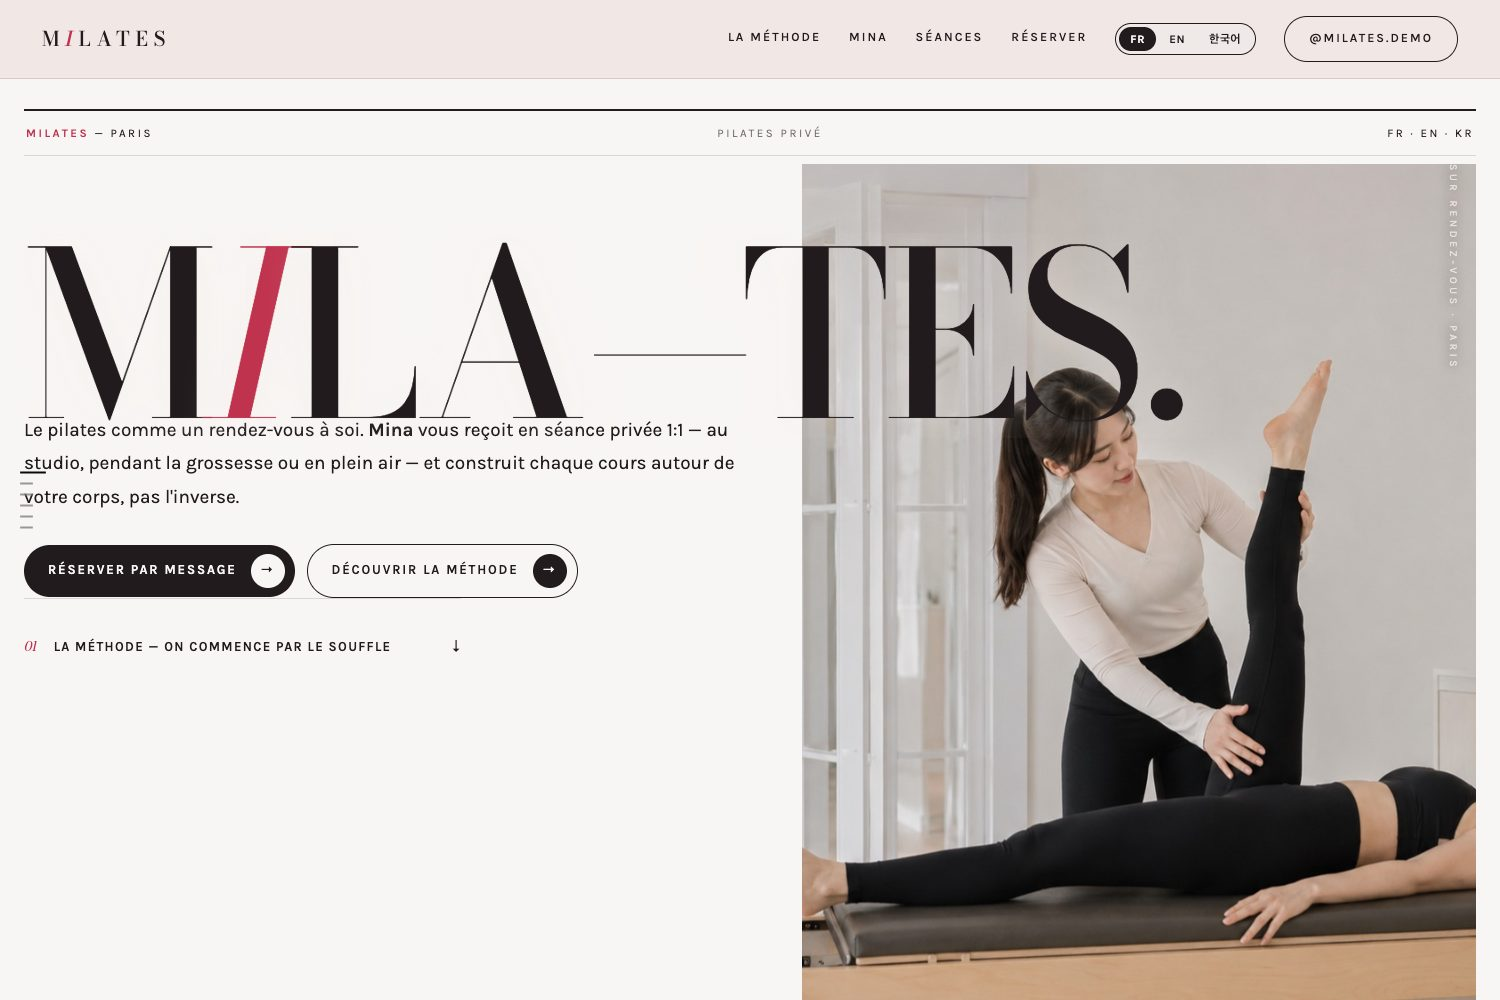
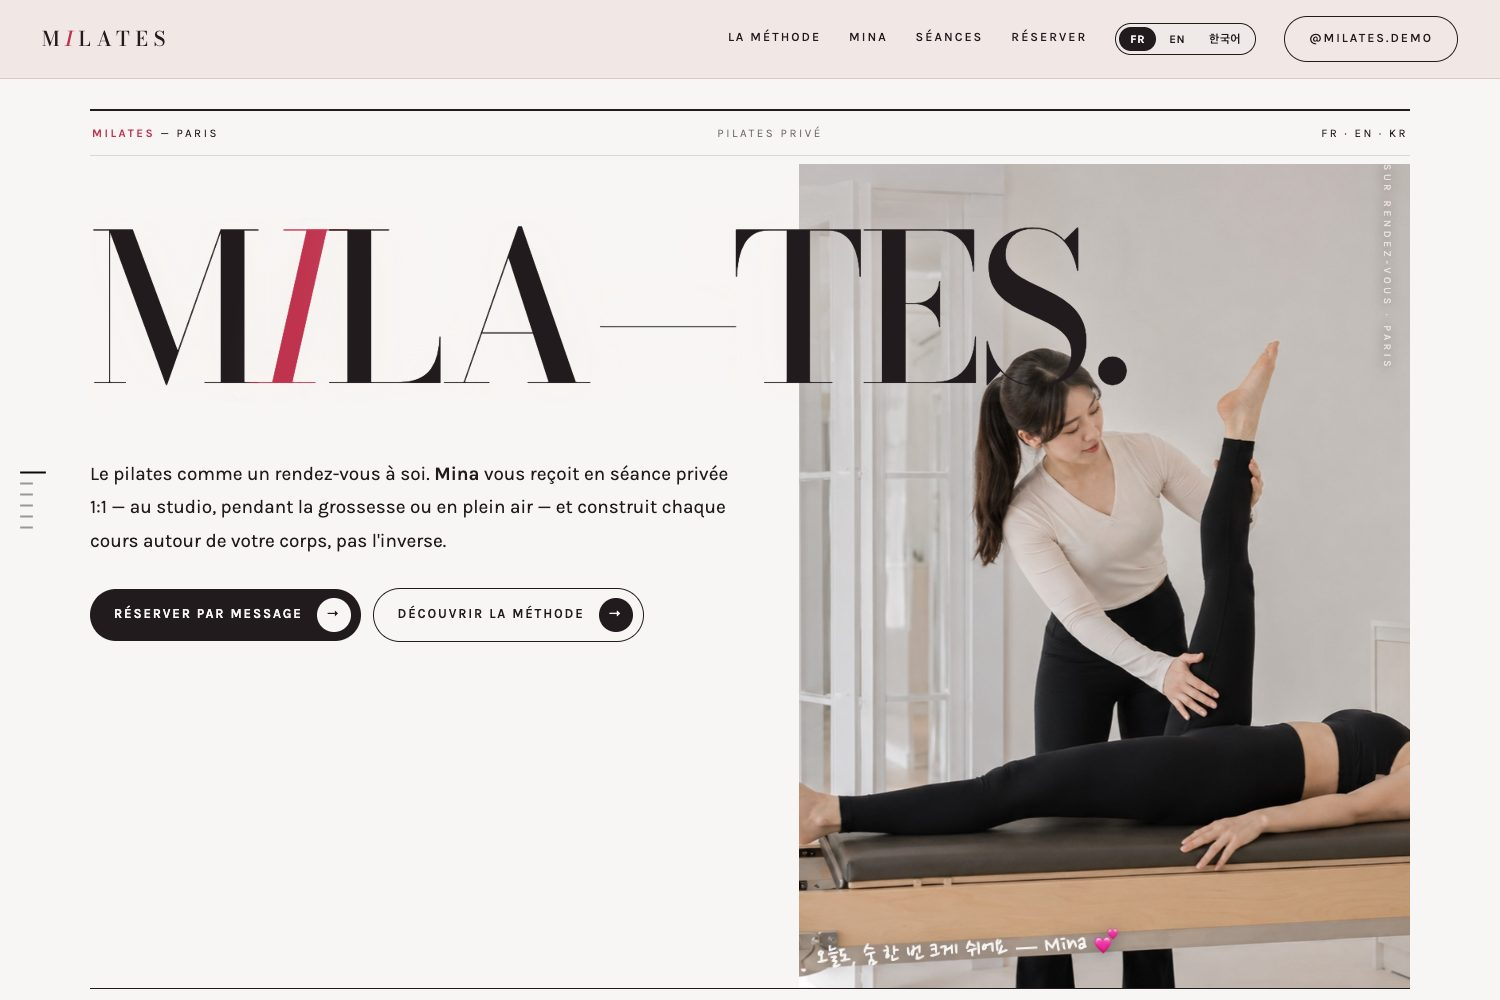
MILATES: drop the flashed verso quote, contents index reads as an index, cover gets a container. Restaurant: signatures engraved on the jars, no longer a daily-menu board

Changed region(s): [[0.4907, 0.155, 1.0, 1.0], [0.0, 0.217, 0.4907, 0.651], [0.0307, 0.124, 0.092, 0.155]]

diff --git a/public/demos/milates-paris.html b/public/demos/milates-paris.html
@@ -181,8 +181,8 @@ a:focus-visible,button:focus-visible{outline:2px solid var(--framboise);outline-
 
 /* ============ COVER ============ */
 .cover{
-  position:relative;
-  padding:30px 24px 70px;
+  position:relative;max-width:1400px;margin:0 auto;
+  padding:30px 40px 64px;
   overflow:hidden;
 }
 .issue-bar{
@@ -237,8 +237,15 @@ a:focus-visible,button:focus-visible{outline:2px solid var(--framboise);outline-
   display:flex;flex-direction:column;
 }
 /* sommaire as a horizontal strip below the frame */
-.sommaire{margin-top:26px;display:grid;grid-template-columns:repeat(4,1fr);gap:0 34px;}
-.sommaire .som-head{grid-column:1/-1;}
+.sommaire{
+  margin-top:38px;border-top:1px solid var(--ink);
+  display:grid;grid-template-columns:auto repeat(4,minmax(0,1fr));gap:0;align-items:stretch;
+}
+.sommaire .som-head{
+  grid-column:1;align-self:center;margin:0;padding-right:26px;
+  white-space:nowrap;
+}
+.sommaire .som-head:after{display:none;}
 .sommaire{margin-top:auto;padding-top:56px;}
 .sommaire .som-head{
   font-size:10.5px;letter-spacing:.3em;text-transform:uppercase;color:var(--framboise);font-weight:600;
@@ -246,15 +253,15 @@ a:focus-visible,button:focus-visible{outline:2px solid var(--framboise);outline-
 }
 .sommaire .som-head:after{content:'';flex:1;height:1px;background:var(--line);}
 .sommaire a{
-  display:flex;justify-content:space-between;align-items:baseline;gap:14px;
-  padding:13px 2px;border-bottom:1px solid var(--line);
-  text-decoration:none;font-size:12.5px;letter-spacing:.14em;text-transform:uppercase;font-weight:500;
-  transition:padding-left .25s,color .25s;
+  display:flex;flex-direction:column;gap:7px;
+  padding:18px 0 18px 22px;border-left:1px solid var(--line);
+  text-decoration:none;font-size:12.5px;letter-spacing:.1em;text-transform:uppercase;font-weight:600;
+  color:var(--ink);transition:background .35s ease,color .35s ease;
 }
-.sommaire a:hover{padding-left:10px;color:var(--framboise);}
+.sommaire a:hover{background:var(--plaster-deep);color:var(--framboise);}
 .sommaire a .num{
-  font-family:var(--display);font-style:italic;font-size:15px;color:var(--framboise);
-  letter-spacing:.04em;
+  order:-1;font-family:var(--display);font-style:italic;font-weight:400;
+  font-size:13px;color:var(--framboise);letter-spacing:.04em;
 }
 .cover .dek{font-size:clamp(16px,1.5vw,19px);font-weight:400;color:var(--ink);}
 .cover .dek b{font-weight:600;}
@@ -546,6 +553,10 @@ body.js-anim .reveal.in{opacity:1;transform:none;}
   .issue-bar{font-size:9.5px;letter-spacing:.14em;gap:8px;}
 }
 @media(max-width:900px){
+  .cover{padding:26px 20px 52px;}
+  .sommaire{grid-template-columns:1fr 1fr;}
+  .sommaire .som-head{grid-column:1/-1;padding:0 0 10px;}
+  .sommaire a{padding:14px 0 14px 16px;}
   .cover-stage{grid-template-columns:1fr;gap:22px;}
   .masthead{position:relative;top:auto;left:auto;right:auto;font-size:clamp(52px,15vw,120px);text-shadow:none;margin-bottom:6px;}
   .cover-ph{grid-column:1;grid-row:auto;aspect-ratio:3/3.4;}
@@ -657,13 +668,6 @@ body.js-anim .reveal.in{opacity:1;transform:none;}
 }
 .pgf.verso:after{content:'';position:absolute;inset:0;pointer-events:none;
   background-image:radial-gradient(rgba(33,27,29,.06) 1px,transparent 1px);background-size:5px 5px;}
-.pgf.verso blockquote{
-  position:relative;z-index:2;text-align:center;max-width:22ch;
-  font-family:var(--display);font-style:italic;font-weight:400;
-  font-size:clamp(20px,2.4vw,34px);line-height:1.4;color:var(--ink);
-}
-.pgf.verso cite{display:block;margin-top:18px;font-family:var(--body);font-style:normal;
-  font-size:10.5px;letter-spacing:.3em;text-transform:uppercase;color:var(--ink-soft);}
 
 /* shadow the turning page casts on the left page */
 .cast{position:absolute;inset:0;z-index:2;pointer-events:none;opacity:0;
@@ -698,8 +702,7 @@ html[lang="ko"] h1,html[lang="ko"] h2,html[lang="ko"] h3,html[lang="ko"] h4,
 html[lang="ko"] .name,html[lang="ko"] .a-head,html[lang="ko"] .addr,
 html[lang="ko"] .price,html[lang="ko"] .dish .p,
 html[lang="ko"] .review p,
-html[lang="ko"] .cov-dek,html[lang="ko"] .pl-h,html[lang="ko"] .pgf.verso blockquote,
-html[lang="ko"] .sel-names button,html[lang="ko"] .breath-label,
+html[lang="ko"] .cov-dek,html[lang="ko"] .pl-h,html[lang="ko"] .sel-names button,html[lang="ko"] .breath-label,
 html[lang="ko"] .hand-note,html[lang="ko"] .section-head h2,html[lang="ko"] .info-card h3{
   font-family:'Noto Serif KR',serif;font-style:normal;font-weight:600;
 }
@@ -730,7 +733,7 @@ html[lang="ko"] .rayon .kr,html[lang="ko"] .menu-item .kr,html[lang="ko"] .ckr{d
 html[lang="ko"]{font-synthesis-style:none;font-synthesis:weight small-caps;}
 html[lang="ko"] .hand-note,html[lang="ko"] .review p,html[lang="ko"] .addr,
 html[lang="ko"] .a-head,html[lang="ko"] .pl-h,html[lang="ko"] .cov-dek,
-html[lang="ko"] .pgf.verso blockquote,html[lang="ko"] .sel-pane .fmt,
+html[lang="ko"] .sel-pane .fmt,
 html[lang="ko"] .breath-label,html[lang="ko"] .story-text h2 .accent,
 html[lang="ko"] .section-head h2 i,html[lang="ko"] h2 i,html[lang="ko"] h3 i{
   font-style:normal;
@@ -769,10 +772,6 @@ html[lang="ko"] .section-head h2 i,html[lang="ko"] h2 i,html[lang="ko"] h3 i{
       </div>
     </div>
     <div class="pgf verso">
-      <blockquote>
-        <span data-i18n="sp_quote">On commence par le souffle. Le reste suit.</span>
-        <cite data-i18n="sp_cite">Mina</cite>
-      </blockquote>
     </div>
   </div>
 
@@ -1042,7 +1041,7 @@ var I18N = {
 fr: {
   _title:"Milates Paris",
   suite:"La méthode — on commence par le souffle",
-  sp_left:"Un studio, une professeure, une séance à la fois.", sp_dek:"Le pilates comme un rendez-vous à soi.", sp_quote:"On commence par le souffle. Le reste suit.", sp_cite:"Mina", sp_hint:"tournez la page",
+  sp_left:"Un studio, une professeure, une séance à la fois.", sp_dek:"Le pilates comme un rendez-vous à soi.", sp_hint:"tournez la page",
   mag_issue:"N°01 · Pilates privé", mag_cta:"Ouvrir le numéro", mag_hint:"cliquez ou faites défiler",
   mag_l1:"Un seul corps par séance", mag_s1:"La méthode",
   mag_l2:"De Séoul à Paris", mag_s2:"Mina",
@@ -1102,7 +1101,7 @@ fr: {
 en: {
   _title:"Milates Paris",
   suite:"The method — we start with the breath",
-  sp_left:"One studio, one teacher, one session at a time.", sp_dek:"Pilates as an appointment with yourself.", sp_quote:"We start with the breath. The rest follows.", sp_cite:"Mina", sp_hint:"turn the page",
+  sp_left:"One studio, one teacher, one session at a time.", sp_dek:"Pilates as an appointment with yourself.", sp_hint:"turn the page",
   mag_issue:"N°01 · Private pilates", mag_cta:"Open the issue", mag_hint:"click or scroll",
   mag_l1:"One body per session", mag_s1:"The method",
   mag_l2:"From Seoul to Paris", mag_s2:"Mina",
@@ -1162,7 +1161,7 @@ en: {
 ko: {
   _title:"밀라테스 Milates Paris",
   suite:"메소드 — 호흡부터 시작합니다",
-  sp_left:"하나의 스튜디오, 한 명의 선생님, 한 번에 한 세션.", sp_dek:"나를 만나는 시간으로서의 필라테스.", sp_quote:"호흡부터 시작합니다. 나머지는 따라옵니다.", sp_cite:"미나", sp_hint:"페이지를 넘기세요",
+  sp_left:"하나의 스튜디오, 한 명의 선생님, 한 번에 한 세션.", sp_dek:"나를 만나는 시간으로서의 필라테스.", sp_hint:"페이지를 넘기세요",
   mag_issue:"N°01 · 프라이빗 필라테스", mag_cta:"이번 호 열기", mag_hint:"클릭하거나 스크롤하세요",
   mag_l1:"한 세션에 한 사람", mag_s1:"메소드",
   mag_l2:"서울에서 파리로", mag_s2:"미나",

diff --git a/public/demos/joayo-restaurant.html b/public/demos/joayo-restaurant.html
@@ -360,13 +360,30 @@ html[lang="ko"] .section-head h2 i,html[lang="ko"] h2 i,html[lang="ko"] h3 i{
 .hero.jangdok .cta-row .btn:hover{background:var(--red);border-color:var(--red);color:var(--paper);}
 .hero.jangdok .cta-row .btn:hover:after{background:var(--paper);color:var(--red);}
 .hero.jangdok .addr-pill{margin-top:0;color:rgba(247,244,239,.62);border-color:rgba(247,244,239,.28);}
-/* the evening board floats as a slate on the jars */
+/* the signatures are engraved on the scene, not boxed on top of it */
 .hero.jangdok .ardoise{
-  background:rgba(12,10,8,.72);backdrop-filter:blur(14px);
-  box-shadow:0 30px 70px -34px rgba(0,0,0,.85);
-  padding:30px 28px;
+  background:none;backdrop-filter:none;box-shadow:none;padding:0;
+  border-top:1px solid rgba(247,244,239,.34);max-width:430px;justify-self:end;
 }
-.hero.jangdok .ardoise .rating-sticker{position:absolute;top:24px;right:26px;}
+.hero.jangdok .a-head{
+  font-family:'Fraunces',serif;font-style:italic;font-size:15px;
+  color:rgba(247,244,239,.72);letter-spacing:.02em;
+  margin:16px 0 6px;padding:0;border:none;max-width:none;
+}
+.hero.jangdok .dish{
+  padding:15px 0;border-bottom:1px solid rgba(247,244,239,.16);align-items:baseline;
+}
+.hero.jangdok .dish:last-of-type{border-bottom:none;}
+.hero.jangdok .dish .n{font-family:'Fraunces',serif;font-weight:560;font-size:17px;}
+.hero.jangdok .dish .n small{color:rgba(247,244,239,.5);}
+.hero.jangdok .dish .p{font-size:16px;color:rgba(247,244,239,.9);}
+.hero.jangdok .a-note{margin-top:16px;}
+.hero.jangdok .ardoise .rating-sticker{
+  position:static;text-align:left;display:flex;align-items:baseline;gap:10px;margin-bottom:6px;
+}
+.hero.jangdok .ardoise .rating-sticker .score{font-size:19px;color:var(--paper);}
+.hero.jangdok .ardoise .rating-sticker .stars{margin:0;}
+.hero.jangdok .ardoise .rating-sticker .count{margin:0;color:rgba(247,244,239,.55);}
 @media(max-width:900px){
   .hero.jangdok{min-height:auto;padding-top:96px;}
   .jd-inner{grid-template-columns:1fr;gap:34px;padding:0 20px 56px;}
@@ -429,7 +446,7 @@ html[lang="ko"] .section-head h2 i,html[lang="ko"] h2 i,html[lang="ko"] h3 i{
       <div class="stars">★★★★☆</div>
       <div class="count" data-i18n="rating_count">Google</div>
     </div>
-    <div class="a-head" data-i18n="ar_head">Ce soir, au tableau</div>
+    <div class="a-head" data-i18n="ar_head">Les signatures</div>
     <div class="dish">
       <span class="n"><span data-i18n="m1_name">Bibimbap au tartare de bœuf</span><small>육회비빔밥</small></span>
       <span class="p">16,50 €</span>
@@ -645,7 +662,7 @@ fr: {
   brand_sub:"Restaurant · 레스토랑",
   nav_home:"Accueil", nav_menu:"La Carte", nav_market:"L'Épicerie", nav_book:"Réserver", nav_find:"Infos",
   rating_count:"Google",
-  ar_head:"Ce soir, au tableau", ar_note:"Toute la carte ↓",
+  ar_head:"Les signatures", ar_note:"Toute la carte ↓",
   kicker:"Midi & soir — en plein cœur de Paris",
   hero_h1a:"Joayo", hero_h1b:"Restaurant", hero_hb:"좋아요 레스토랑",
   hero_sub:"La cuisine coréenne authentique du 1er arrondissement. Bibimbap au <strong>tartare de bœuf</strong>, bulgogi, poulet frit — dans une salle chaleureuse en bois, au cœur de Paris.",
@@ -692,7 +709,7 @@ en: {
   brand_sub:"Restaurant · 레스토랑",
   nav_home:"Home", nav_menu:"The Menu", nav_market:"The Grocery", nav_book:"Book", nav_find:"Info",
   rating_count:"Google",
-  ar_head:"Tonight, on the slate", ar_note:"See the full menu ↓",
+  ar_head:"The signatures", ar_note:"See the full menu ↓",
   kicker:"Lunch & dinner — in the heart of Paris",
   hero_h1a:"Joayo", hero_h1b:"Restaurant", hero_hb:"좋아요 레스토랑",
   hero_sub:"Authentic Korean cooking in the 1st arrondissement. <strong>Beef tartare</strong> bibimbap, bulgogi, fried chicken — in a warm wood-lined room in the heart of Paris.",
@@ -739,7 +756,7 @@ ko: {
   brand_sub:"레스토랑 · Restaurant",
   nav_home:"홈", nav_menu:"메뉴", nav_market:"마켓", nav_book:"예약", nav_find:"안내",
   rating_count:"Google",
-  ar_head:"오늘의 칠판 메뉴", ar_note:"전체 메뉴 보기 ↓",
+  ar_head:"대표 메뉴", ar_note:"전체 메뉴 보기 ↓",
   kicker:"점심 & 저녁 — 파리 시내 한복판",
   hero_h1a:"Joayo", hero_h1b:"Restaurant", hero_hb:"JOAYO RESTAURANT",
   hero_sub:"파리 1구의 정통 한식. <strong>육회비빔밥</strong>, 불고기, 치킨 — 파리 시내 한복판, 나무 인테리어의 아늑한 공간에서.",
